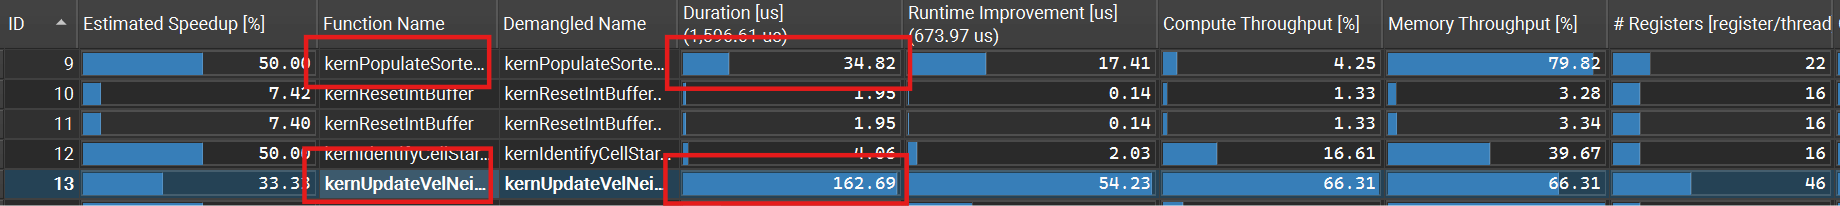
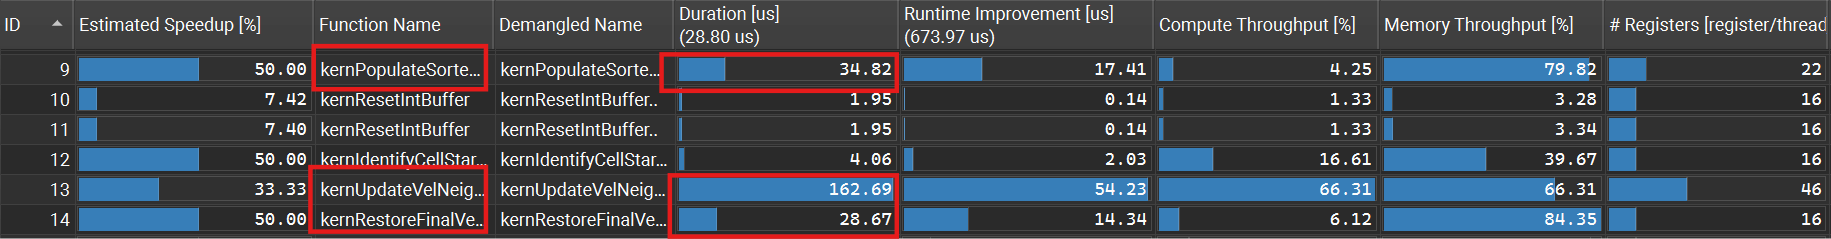
finish first draft of readme

diff --git a/src/main.cpp b/src/main.cpp
@@ -22,11 +22,13 @@
 // ================
 
 // LOOK-2.1 LOOK-2.3 - toggles for UNIFORM_GRID and COHERENT_GRID
-#define VISUALIZE 0
+#define VISUALIZE 1
 #define UNIFORM_GRID 1
 #define COHERENT_GRID 1
 
-#define USE_NSIGHT_COMPUTE 1
+#define IS_PROFILING 0
+#define USE_NSIGHT_COMPUTE 0
+#define USE_27_CHECK 1
 
 // LOOK-1.2 - change this to adjust particle count in the simulation
 const int N_FOR_VIS = 100000;
@@ -231,25 +233,32 @@ void initShaders(GLuint * program) {
     Boids::unitTest(); // LOOK-1.2 We run some basic example code to make sure
                        // your CUDA development setup is ready to go.
 
-
+#if IS_PROFILING
     int numFrames = 0;
     double accumulatedFPS = 0.0f;
     double framesLogged = 0.0f;
     double initTime = glfwGetTime();
     double currTime = initTime;
+#endif
 
 #if USE_NSIGHT_COMPUTE
     while (!glfwWindowShouldClose(window) && numFrames < 5) {
 #else
+#if IS_PROFILING
     while (!glfwWindowShouldClose(window) && currTime - initTime < 10.0f) {
+#else
+    while(!glfwWindowShouldClose(window)) {
+#endif // IS_PROFILING
 #endif // !USE_NSIGHT_COMPUTE
       glfwPollEvents();
       frame++;
 
-      numFrames++;
-
       double time = glfwGetTime();
+
+#if IS_PROFILING
+      numFrames++;
       currTime = time;
+#endif
 
       if (time - timebase > 1.0) {
         fps = frame / (time - timebase);
@@ -282,7 +291,7 @@ void initShaders(GLuint * program) {
       #endif
     }
 
-#if !USE_NSIGHT_COMPUTE
+#if !USE_NSIGHT_COMPUTE && IS_PROFILING
     std::cout << "average FPS: " << numFrames / 10.0f << std::endl;
 #endif
 

diff --git a/README.md b/README.md
@@ -3,14 +3,30 @@ Project 1 - Flocking**
 
 * Anthony Ge
   * [LinkedIn](https://www.linkedin.com/in/anthonyge/), [personal website](geant.pro)
-* Tested on: Windows 11, i9-13900H @ 2600 Mhz 16GB, NVIDIA GeForce RTX 4070 Laptop GPU 8GB
+* Tested on: Windows 11, i9-13900H @ 2600 Mhz 16GB, NVIDIA 
+GeForce RTX 4070 Laptop GPU 8GB
+* **For extra credit, I implemented grid-looping optimization.**
 
-### (TODO: Your README)
+## Project 1: CUDA-based Boids Simulation
 
-Include screenshots, analysis, etc. (Remember, this is public, so don't put
-anything here that you don't want to share with the world.)
+![boids gif](images/coherentBoidsMany.gif)
+<br>
+*Coherent boids method, simulating 100k boids*
 
-# Part 3: Performance Analysis
+For this assignment, I implemented a flocking simulation based on the Reynolds Boids algorithm. We call the objects in simulaiton boids, whose positions and velocities are determined by three rules representing behaviors for cohesion, separation, and alignment.
+
+Cohesion draws groups of boids within a distance to their center of mass, separation ensures they avoid getting too close to each other, and alignment makes sure they share a relatively similar velocity.
+
+There are overall three methods of implementation covered: naive, uniform, and coherent. 
+
+- For Naive simulation, we dispatch a kernel running threads for each boid, where each boid will loop through every boid to calculate velocities based on the three rules. 
+
+ - To improve upon performance in Naive, we can use a uniform grid to bin boids into 3D cells, such that for a given boid, we can spatially check neighboring cells for boids rather than checking all. To group boids into cells, we make use of key/value sorting for the grid/boid index relation and utilize buffers to store indirect indexes to position/velocity data.
+
+ - We then reach the coherent implementation by sorting position/velocity buffers to remove the use of the indirect indices.
+
+ We achieve the screenshot above, showing the coherent method for simulating boids in real-time.
+ 
 ## Performance Measuring
 To gather FPS data, I logged the number of frames rendered over a 10 second period using data from glfw. Depending on whether or not I want to measure kernel performance from NSight Compute, I also have a preprocessor directive for toggling a frame limit before automatically terminating the boids program. 
 
@@ -36,8 +52,8 @@ print(avg FPS: framesCollectedd / 10)
 
 Data was then collected and logged in a spreadsheet, detailing performance vs. boid size, block size, and whether or not we're rendering boids.
 
-## Questions:
-#### For each implementation, how does changing the number of boids affect performance, why do you think that is?
+## Peformance Analysis/Questions:
+### For each implementation, how does changing the number of boids affect performance, why do you think that is?
 
 ![avg fps vs number of boids, viz on](images/FPSBoidNumVizOff.png)
 ![avg fps vs number of boids, viz off](images/FPSBoidNumVizON.png)
@@ -52,33 +68,62 @@ Depending on whether or not the number of boids is a multiple of our block size,
 
 Since increasing the number of boids means we need to render more objects, we can see lower performance for visualize on versus off.
 
-#### For each implementation, how does changing the block count and block size affect performance? Why do you think this is?
+---
+### For each implementation, how does changing the block count and block size affect performance? Why do you think this is?
 ![avg fps vs block size, viz off](images/FPSBlockSizeVizOFF.png)
 Block size seemed generally improved performance as we increased count from 1-32 across all methods of implementation, but overall flattened for uniform and naive. Coherent, on the otherhand, seemed to perform just a little bit better as we increased block size past 32, but more importantly its rate of improvement paled by comparison to 1-32.
 
 This can be attributed to the 32 thread warp size on our GPU cards, as warp sizes in multiples of 32 will perform similarly since each block won't have any unutilized threads. This is noted as well with our block size of 16, where many threads are under-utilized, showing the performance hit in naive and coherent (though somehow uniform did better across multiple tests...).
 
-#### Did you experience any performance improvements with the more coherent uniform grid? Was this the outcome you expected? Why or why not?
+---
+### Did you experience any performance improvements with the more coherent uniform grid? Was this the outcome you expected? Why or why not?
 
 The performance improvements for coherent were very clear as our boid count increased. Across all tests for boid size, coherent always performed better than uniform.
 
-I did expect an improvement in performance, but I did not think it would be this significant, as I figured reducing 2 memory reads can only do so much, and because of the overhead of reshuffling our buffers. 
+I did expect an improvement in performance, but I did not think it would be this significant, as I figured reducing 2 memory reads per cell check can only do so much and the potential overhead of reshuffling our buffers could also hurt performance too. 
 
-However, I was very wrong! While reducing two memory reads per neighbor check to find indices can be helpful, I think the more important improvement comes from the contiguous memory in cache when we do access pos/vel data per boid in a grid. This therefore results in better cache coherency and hits, unlike the previous model where indexing into unordered pos/vel will be in random positions of our 1D buffers, which definitely scales horribly. 
+However, I was very wrong! While reducing two memory reads per neighbor check to find indices can be helpful, I think the more important improvement comes from the **contiguous memory in cache** when we do access pos/vel data per boid in a grid. This therefore results in better cache coherency and hits, unlike the previous model where indexing into unordered pos/vel will be in random positions of our 1D buffers, which definitely scales horribly. 
 
-The performance gains from better cache usage significantly overpowers the overhead from running a kernel to reshuffle our buffers. **Checking NSight Compute,** we can actually see the difference in throughput:
+To verify my assumption, I used **NSight Compute** to analyze kernel durations and active/average L1/L2 cycles.
 
 **For uniform, observe the screenshots analyzing kernel duration and L1/L2 cycles:**
 ![uniformPerf](images/uniformPerf.png)
 ![uniformCachePerf](images/uniformCacheCycles.png)
-Through the screenshots, we can see kernel ```kernUpdateVelNeighborSearchScattered``` run for 947us, which is ~1ms. This is for our uniform implmentation without any reshuffling and middle-man cuts. Our L2 and L1 cache cycles are also high in the millions.
 
-**Upon switching to coherent, our overall kernel durations and L1/L2 cycles are significantly lower, even though we practically changed nothing in the coherent neighbor kernel code!**
+Through the screenshots, we can see kernel ```kernUpdateVelNeighborSearchScattered``` run for 947us, which is ~1ms. This is for our uniform implmentation without any reshuffling and middle-man cuts. Our L2 and L1 cache cycles are also high in the millions. 
+
+Upon switching to coherent, our overall kernel durations and L1/L2 cycles are significantly lower, even though we practically changed nothing in the coherent neighbor kernel code!
+
 ![coherentPerf](images/coherentPerf.png)
 ![coherentCachePerf](images/coherentCacheCycles.png)
-Average L2 Active Cycles reduced by ~6.36x, which is an incredible improvement. Our L1 cycles have also been reduced, most likely due to better cache performance from our reshuffled buffers.
+**Average L2 Active Cycles reduced by ~6.36x,** which is an incredible improvement. Our L1 cycles have also been reduced, most likely due to better cache performance from our reshuffled buffers.
 
-We can easily see that the combined ```34.82us + 162.69us``` cost is significantly cheaper than ```947.04us```, meaning our reshuffling kernel is well worth the additional overhead.
+We can easily see that the **combined ```34.82us + 162.69us + 28.67us = 226.18us``` cost is significantly cheaper than ```947.04us```,** meaning our reshuffling kernel and restoring original orders is well worth the additional overhead.
+
+---
+### Did changing cell width and checking 27 vs 8 neighboring cells affect performance? Why or why not? Be careful: it is insufficient (and possibly incorrect) to say that 27-cell is slower simply because there are more cells to check!
+
+For testing 100k boids, I interestingly saw performance increases for both uniform and coherent, with/without visualization on. 
+
+|          | 8 Cells, 2x neighbor dist. cell width, Viz OFF | 27 Cells, 1x neighbor dist. cell width, Viz OFF |
+|----------|---------------------------------------|----------------------------------------|
+| Uniform  | 473.6                                 | 576.2                                  |
+| Coherent | 1182.5                                | 1143.5                                 |
+
+|          | 8 Cells, 2x neighbor dist. cell width, Viz ON | 27 Cells, 1x neighbor dist. cell width, Viz ON |
+|----------|---------------------------------------|----------------------------------------|
+| Uniform  | 300.2                                 | 338.2                                  |
+| Coherent | 443.7                                | 553.2                                 |
+
+This particularly surprised me, as I expected that the more cell checks would hurt performance, as it could increase the chances of thread stalls in a warp if one thread in particular scanned through 27 cells when all others didn't - implying that the work to scan 27 vs 8 is much more and more likely to happen.
+
+It's likely the case that by reducing the cell width, we're more likely to skip through more empty cells, which can boost thread performance. Contrasting before, the higher neighborhood size from using 2x distance for a cell width means that each grid cell will contain much more boids, which are also similarly much more likely to **NOT** be in the neighborhood range. 
+
+Therefore, we are more likely to process more out of range boids with 2x width cells than the 27 cells configuration with a normal width. By having less boids to process in the 27 cell check, we're potentially boosting performance as each thread can skip more cells and do less work overall.
+
+
+
+
 
 
 
